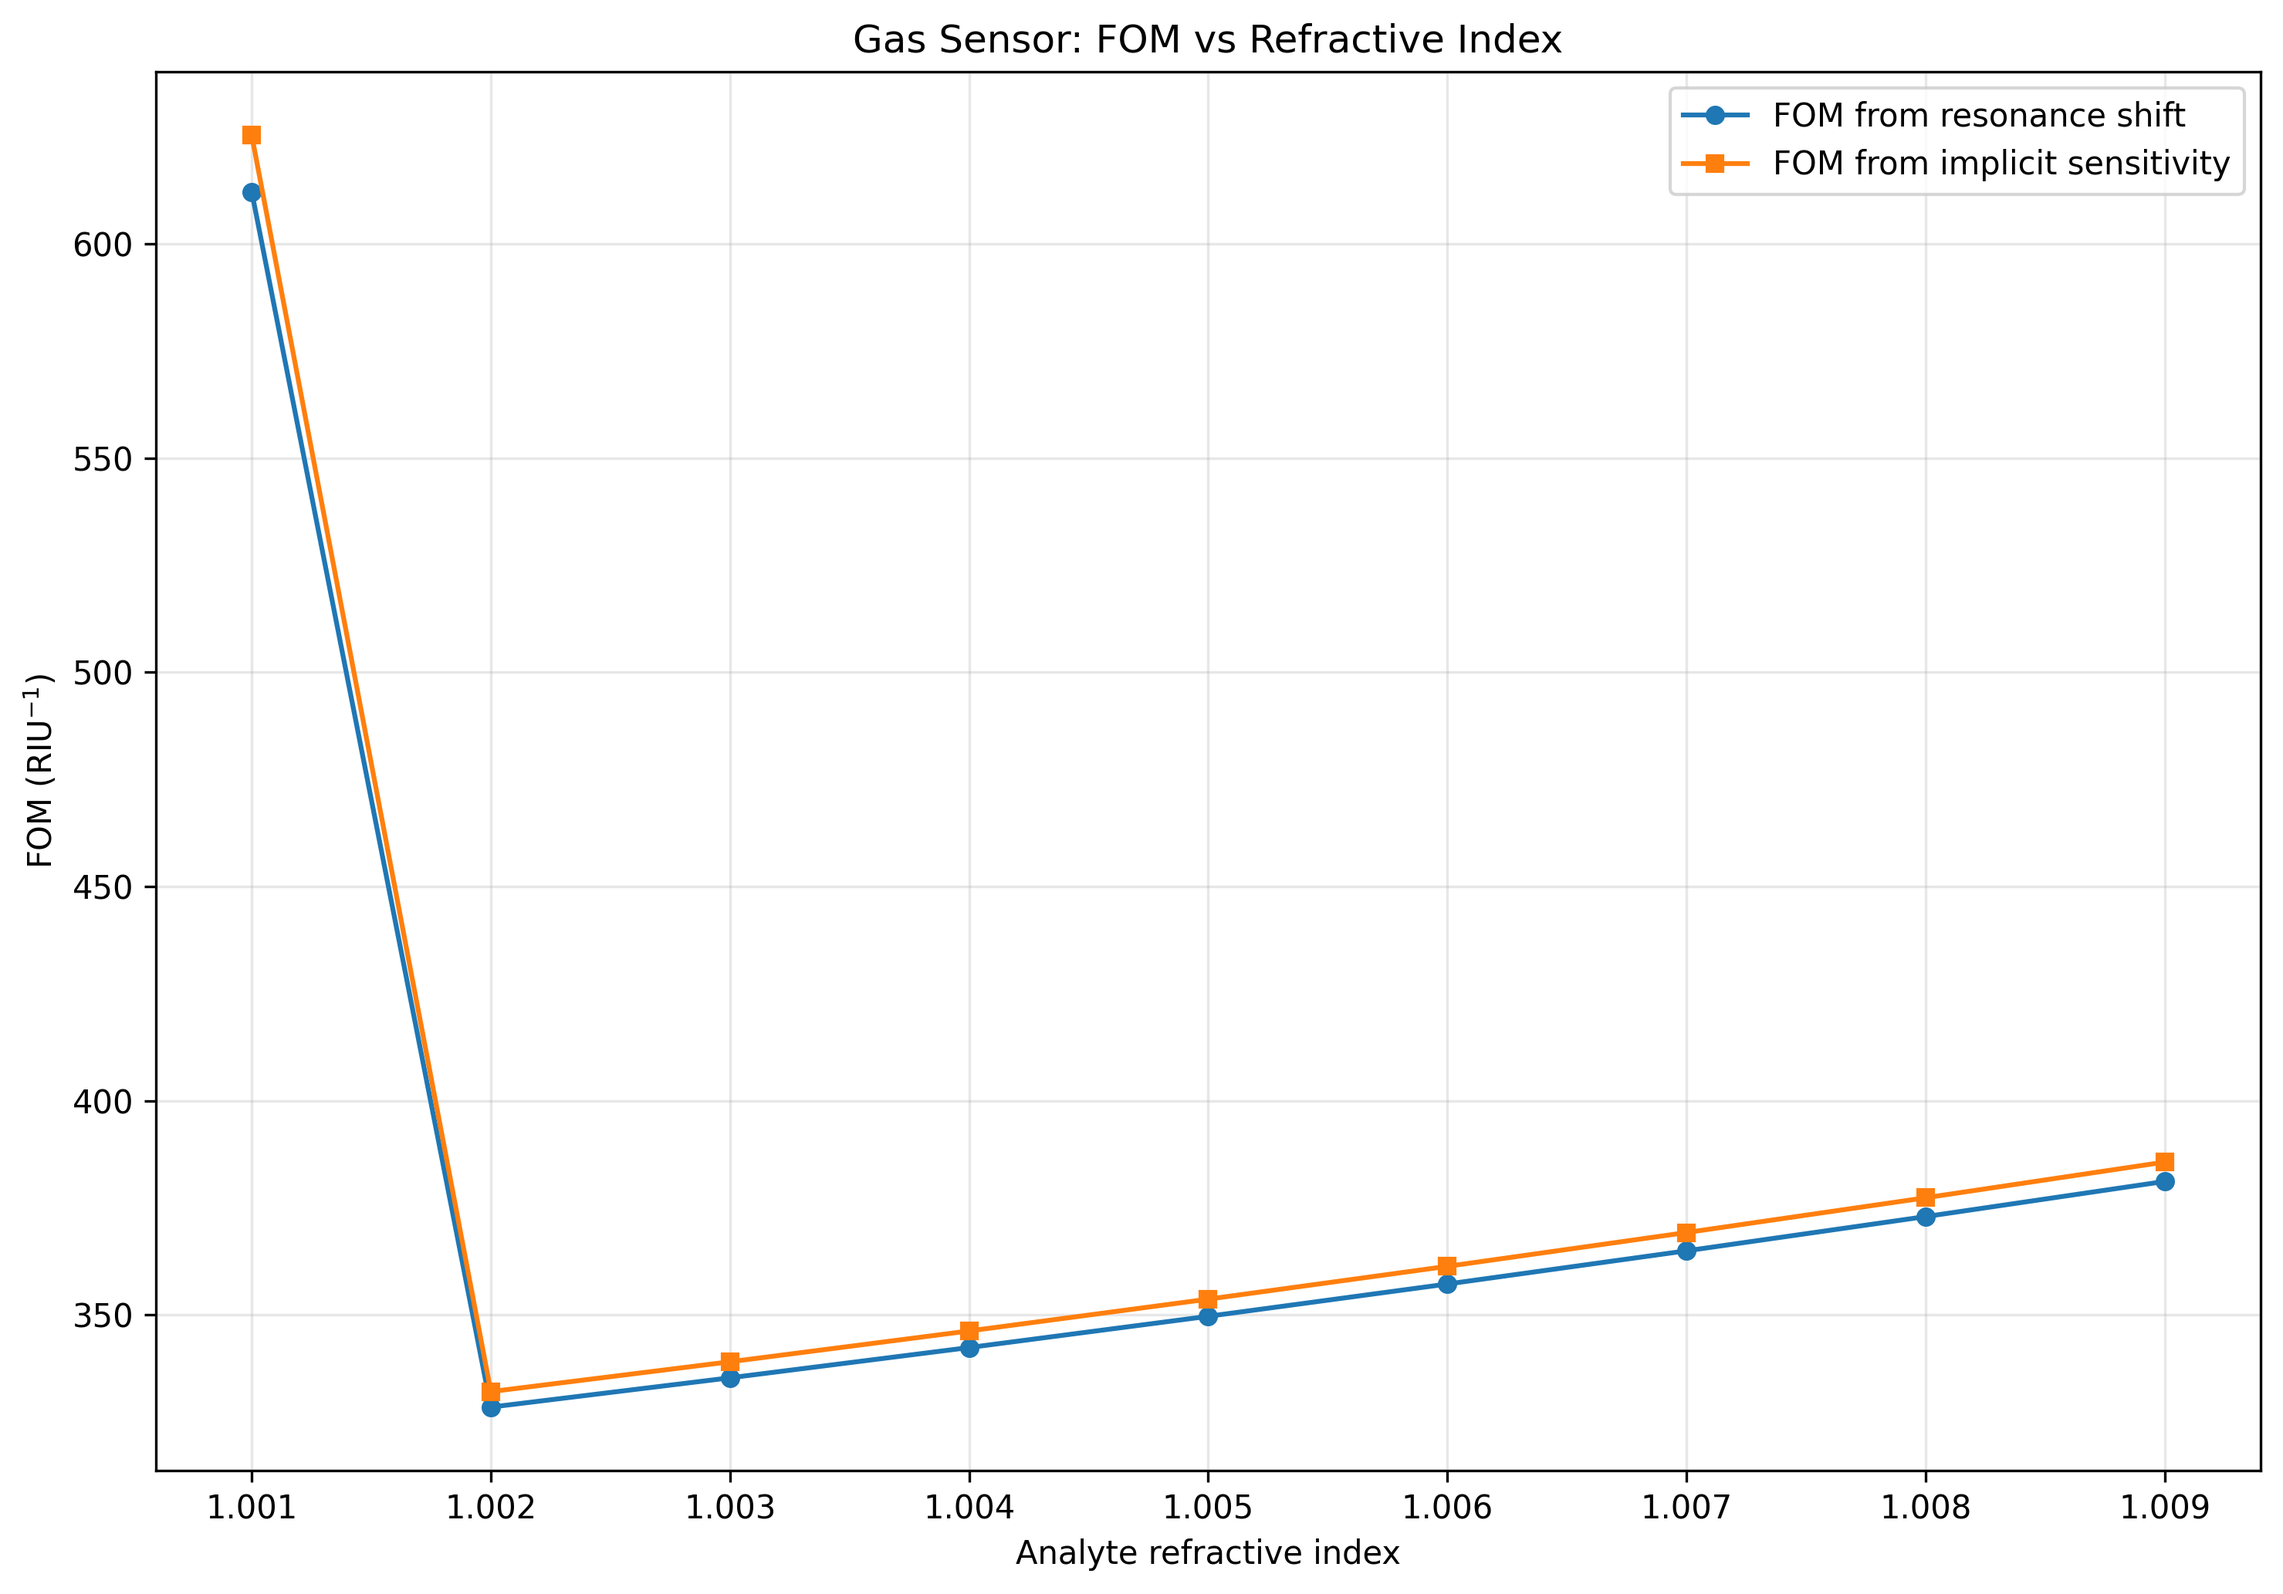
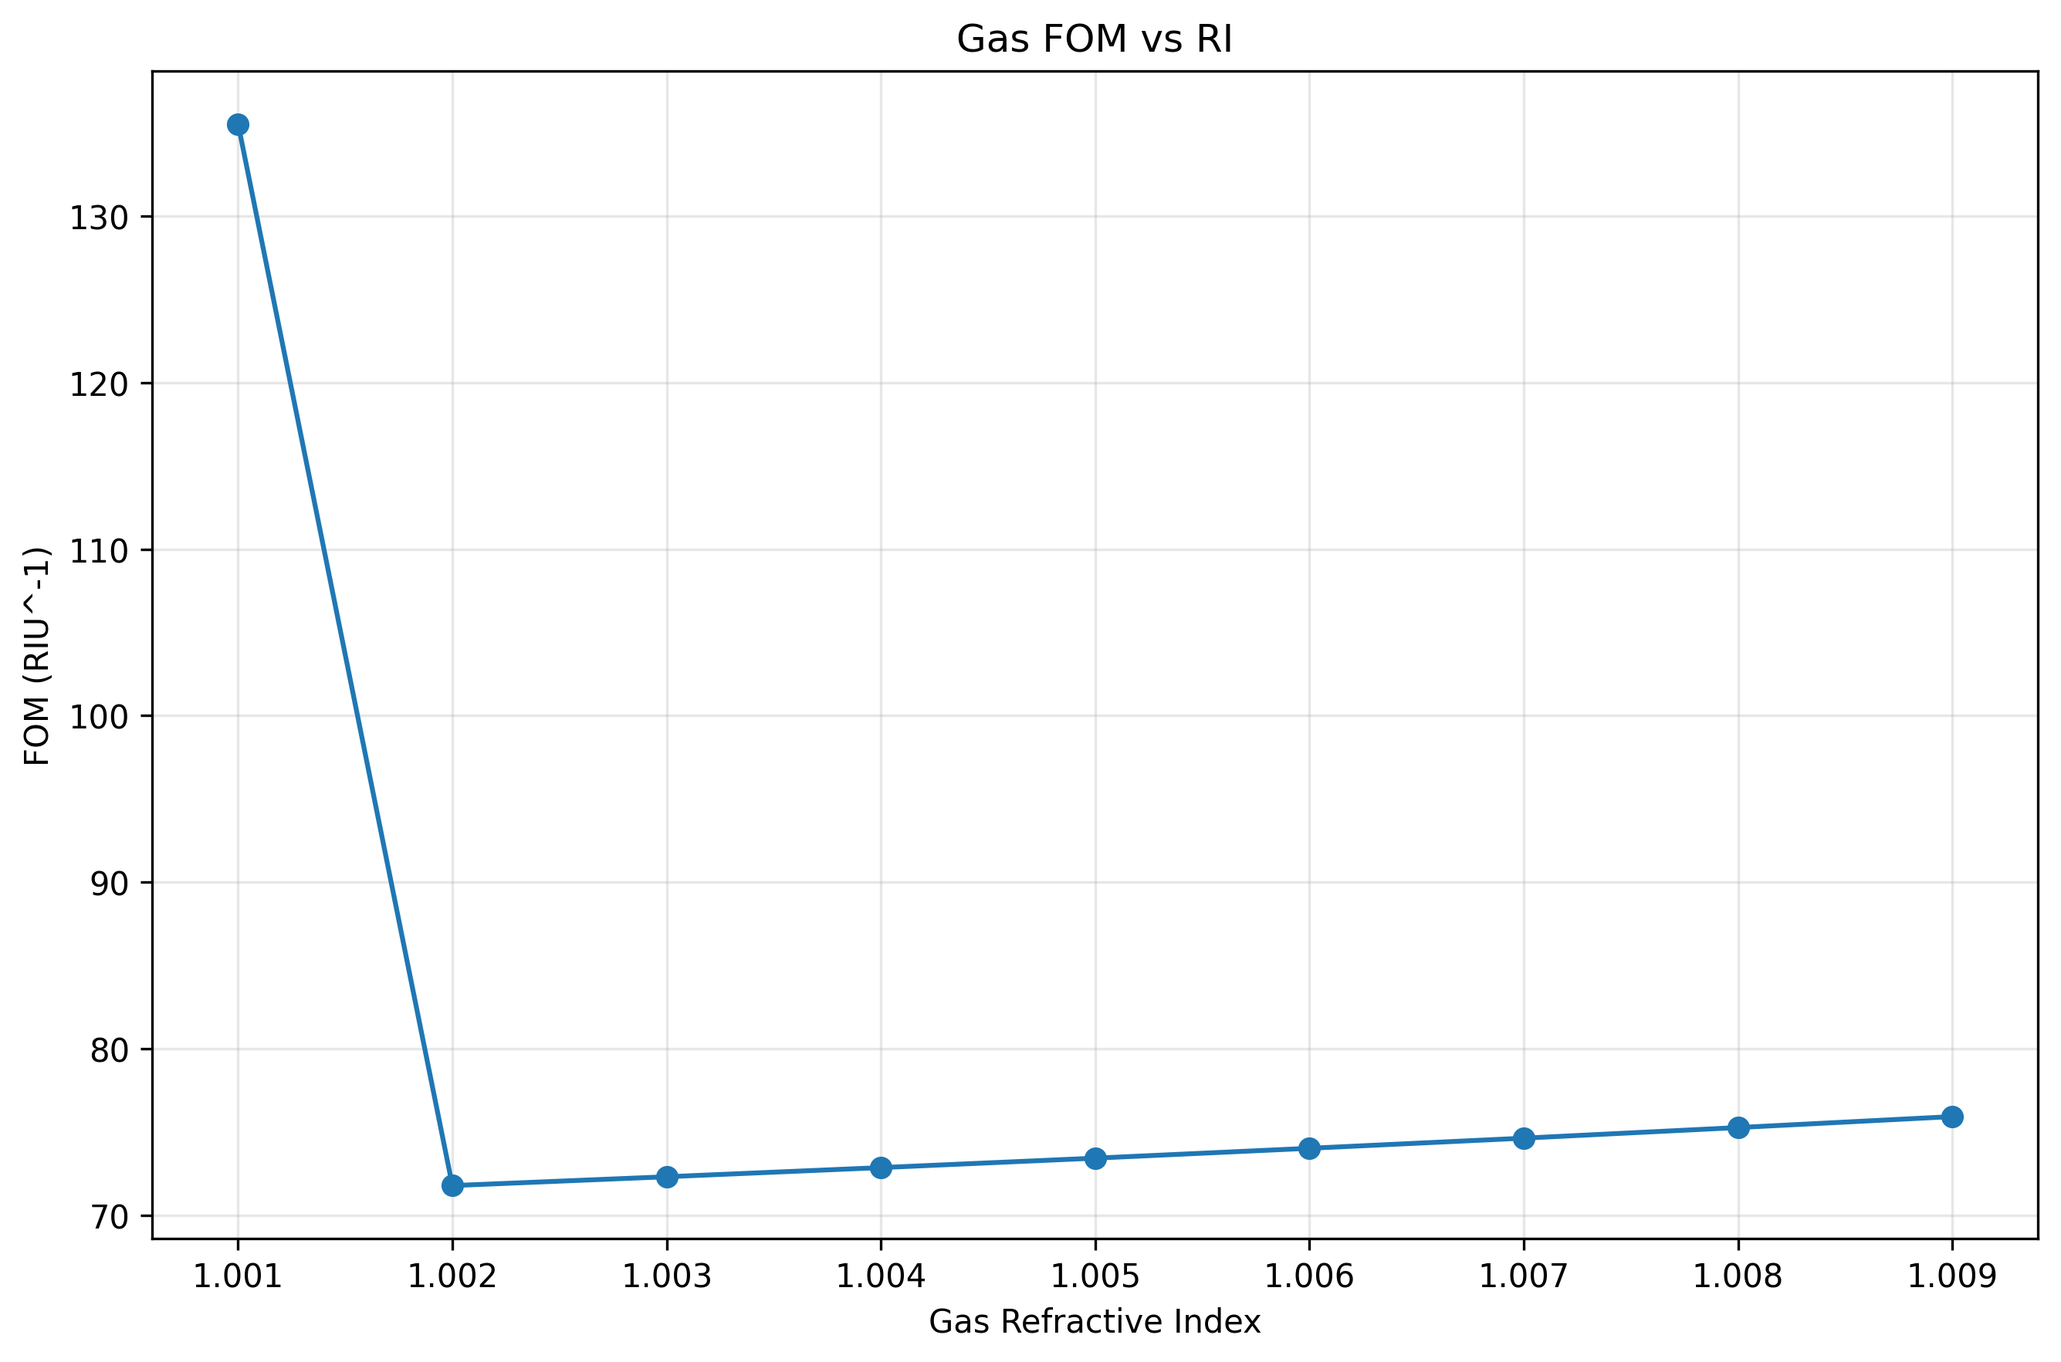
Add final gas sensitivity analysis

Changed region(s): [[0.0, 0.0, 0.9948, 0.9972], [0.1243, 0.187, 0.1865, 0.6544]]

diff --git a/src/analysis/gas_final_analysis.py b/src/analysis/gas_final_analysis.py
@@ -1,0 +1,257 @@
+from pathlib import Path
+
+import matplotlib.pyplot as plt
+import numpy as np
+from scipy.optimize import brentq
+
+from src.calculations.delta_neff import DeltaNeffCalculator
+from src.config.settings import DEVICE_LENGTH_UM, GAS_RI_STEP
+from src.io.loader import ModeDataLoader
+
+
+PROJECT_ROOT = Path(__file__).resolve().parents[2]
+DATA_DIR = PROJECT_ROOT / "data" / "base"
+OUTPUT_DIR = DATA_DIR / "plots"
+
+REFERENCE_FILE = DATA_DIR / "reference.mat"
+GAS_FILES = sorted(DATA_DIR.glob("sensor-gas-*.mat"))
+
+OUTPUT_DIR.mkdir(parents=True, exist_ok=True)
+
+
+def transmission(wavelength, delta_neff):
+    return np.cos(
+        (2.0 * np.pi * delta_neff * DEVICE_LENGTH_UM) / wavelength
+    ) ** 2
+
+
+def exact_resonance(wavelength, delta_neff, target_m=56.0):
+    m = 2.0 * delta_neff * DEVICE_LENGTH_UM / wavelength
+    crossings = np.where((m[:-1] - target_m) * (m[1:] - target_m) <= 0.0)[0]
+
+    if len(crossings) == 0:
+        raise RuntimeError("No m=56 crossing found.")
+
+    # Choose the crossing closest to the strongest transmission peak.
+    t = transmission(wavelength, delta_neff)
+    peak_index = int(np.argmax(t))
+
+    crossing_index = min(
+        crossings,
+        key=lambda i: abs(i - peak_index),
+    )
+
+    i = crossing_index
+
+    return np.interp(
+        target_m,
+        [m[i], m[i + 1]],
+        [wavelength[i], wavelength[i + 1]],
+    )
+
+
+def calculate_fwhm(wavelength, delta_neff, lambda_res):
+    def t_of_lambda(lam):
+        dn = np.interp(lam, wavelength, delta_neff)
+        return np.cos(
+            (2.0 * np.pi * dn * DEVICE_LENGTH_UM) / lam
+        ) ** 2
+
+    t_peak = t_of_lambda(lambda_res)
+    half_level = t_peak / 2.0
+
+    span = 0.04  # ±40 nm search window
+    grid_left = np.linspace(lambda_res - span, lambda_res, 2000)
+    grid_right = np.linspace(lambda_res, lambda_res + span, 2000)
+
+    left_values = np.array(
+        [t_of_lambda(x) - half_level for x in grid_left]
+    )
+    right_values = np.array(
+        [t_of_lambda(x) - half_level for x in grid_right]
+    )
+
+    left_crossings = np.where(
+        left_values[:-1] * left_values[1:] <= 0.0
+    )[0]
+
+    right_crossings = np.where(
+        right_values[:-1] * right_values[1:] <= 0.0
+    )[0]
+
+    if len(left_crossings) == 0 or len(right_crossings) == 0:
+        raise RuntimeError(
+            f"Could not determine FWHM at λ={lambda_res:.9f} µm."
+        )
+
+    li = left_crossings[-1]
+    ri = right_crossings[0]
+
+    lambda_left = brentq(
+        lambda x: t_of_lambda(x) - half_level,
+        grid_left[li],
+        grid_left[li + 1],
+    )
+
+    lambda_right = brentq(
+        lambda x: t_of_lambda(x) - half_level,
+        grid_right[ri],
+        grid_right[ri + 1],
+    )
+
+    return (lambda_right - lambda_left) * 1000.0
+
+
+def main():
+    reference = ModeDataLoader.load(REFERENCE_FILE)
+
+    wavelength = np.asarray(
+        reference.wavelength_neff,
+        dtype=float,
+    ).ravel()
+
+    results = []
+
+    previous_lambda = None
+
+    for sensor_file in GAS_FILES:
+        sensor = ModeDataLoader.load(sensor_file)
+
+        delta_neff = DeltaNeffCalculator.calculate(
+            reference,
+            sensor,
+        )
+
+        lambda_res = exact_resonance(
+            wavelength,
+            delta_neff,
+        )
+
+        fwhm_nm = calculate_fwhm(
+            wavelength,
+            delta_neff,
+            lambda_res,
+        )
+
+        ri = int(sensor_file.stem.split("-")[-1]) / 1000.0
+
+        if previous_lambda is None:
+            sensitivity = np.nan
+            fom = np.nan
+        else:
+            sensitivity = (
+                (lambda_res - previous_lambda)
+                * 1000.0
+                / GAS_RI_STEP
+            )
+            fom = sensitivity / fwhm_nm
+
+        results.append(
+            {
+                "ri": ri,
+                "lambda_nm": lambda_res * 1000.0,
+                "sensitivity_nm_per_riu": sensitivity,
+                "fwhm_nm": fwhm_nm,
+                "fom_riu_inv": fom,
+            }
+        )
+
+        previous_lambda = lambda_res
+
+    print()
+    print("=" * 90)
+    print("FINAL GAS ANALYSIS")
+    print("=" * 90)
+    print()
+    print(
+        f"{'RI':>7}"
+        f"{'Lambda (nm)':>16}"
+        f"{'S (nm/RIU)':>16}"
+        f"{'FWHM (nm)':>14}"
+        f"{'FOM (RIU^-1)':>16}"
+    )
+    print("-" * 90)
+
+    for row in results:
+        if np.isnan(row["sensitivity_nm_per_riu"]):
+            print(
+                f"{row['ri']:7.3f}"
+                f"{row['lambda_nm']:16.6f}"
+                f"{'N/A':>16}"
+                f"{row['fwhm_nm']:14.6f}"
+                f"{'N/A':>16}"
+            )
+        else:
+            print(
+                f"{row['ri']:7.3f}"
+                f"{row['lambda_nm']:16.6f}"
+                f"{row['sensitivity_nm_per_riu']:16.4f}"
+                f"{row['fwhm_nm']:14.6f}"
+                f"{row['fom_riu_inv']:16.6f}"
+            )
+
+    ri_values = np.array([r["ri"] for r in results])
+    lambda_values = np.array([r["lambda_nm"] for r in results])
+    sensitivity_values = np.array(
+        [r["sensitivity_nm_per_riu"] for r in results]
+    )
+    fwhm_values = np.array([r["fwhm_nm"] for r in results])
+    fom_values = np.array([r["fom_riu_inv"] for r in results])
+
+    valid = np.isfinite(sensitivity_values)
+
+    # λres vs RI
+    plt.figure(figsize=(9, 6))
+    plt.plot(ri_values, lambda_values, marker="o")
+    plt.xlabel("Gas Refractive Index")
+    plt.ylabel("Resonance Wavelength (nm)")
+    plt.title("Gas Resonance Wavelength vs RI")
+    plt.grid(True, alpha=0.3)
+    plt.tight_layout()
+    plt.savefig(
+        OUTPUT_DIR / "gas_resonance_vs_ri.png",
+        dpi=300,
+        bbox_inches="tight",
+    )
+
+    # Sensitivity vs RI
+    plt.figure(figsize=(9, 6))
+    plt.plot(
+        ri_values[valid],
+        sensitivity_values[valid],
+        marker="o",
+    )
+    plt.xlabel("Gas Refractive Index")
+    plt.ylabel("Sensitivity (nm/RIU)")
+    plt.title("Gas Sensitivity vs RI")
+    plt.grid(True, alpha=0.3)
+    plt.tight_layout()
+    plt.savefig(
+        OUTPUT_DIR / "gas_sensitivity_vs_ri.png",
+        dpi=300,
+        bbox_inches="tight",
+    )
+
+    # FOM vs RI
+    plt.figure(figsize=(9, 6))
+    plt.plot(
+        ri_values[valid],
+        fom_values[valid],
+        marker="o",
+    )
+    plt.xlabel("Gas Refractive Index")
+    plt.ylabel("FOM (RIU^-1)")
+    plt.title("Gas FOM vs RI")
+    plt.grid(True, alpha=0.3)
+    plt.tight_layout()
+    plt.savefig(
+        OUTPUT_DIR / "gas_fom_vs_ri.png",
+        dpi=300,
+        bbox_inches="tight",
+    )
+
+    plt.show()
+
+
+if __name__ == "__main__":
+    main()
